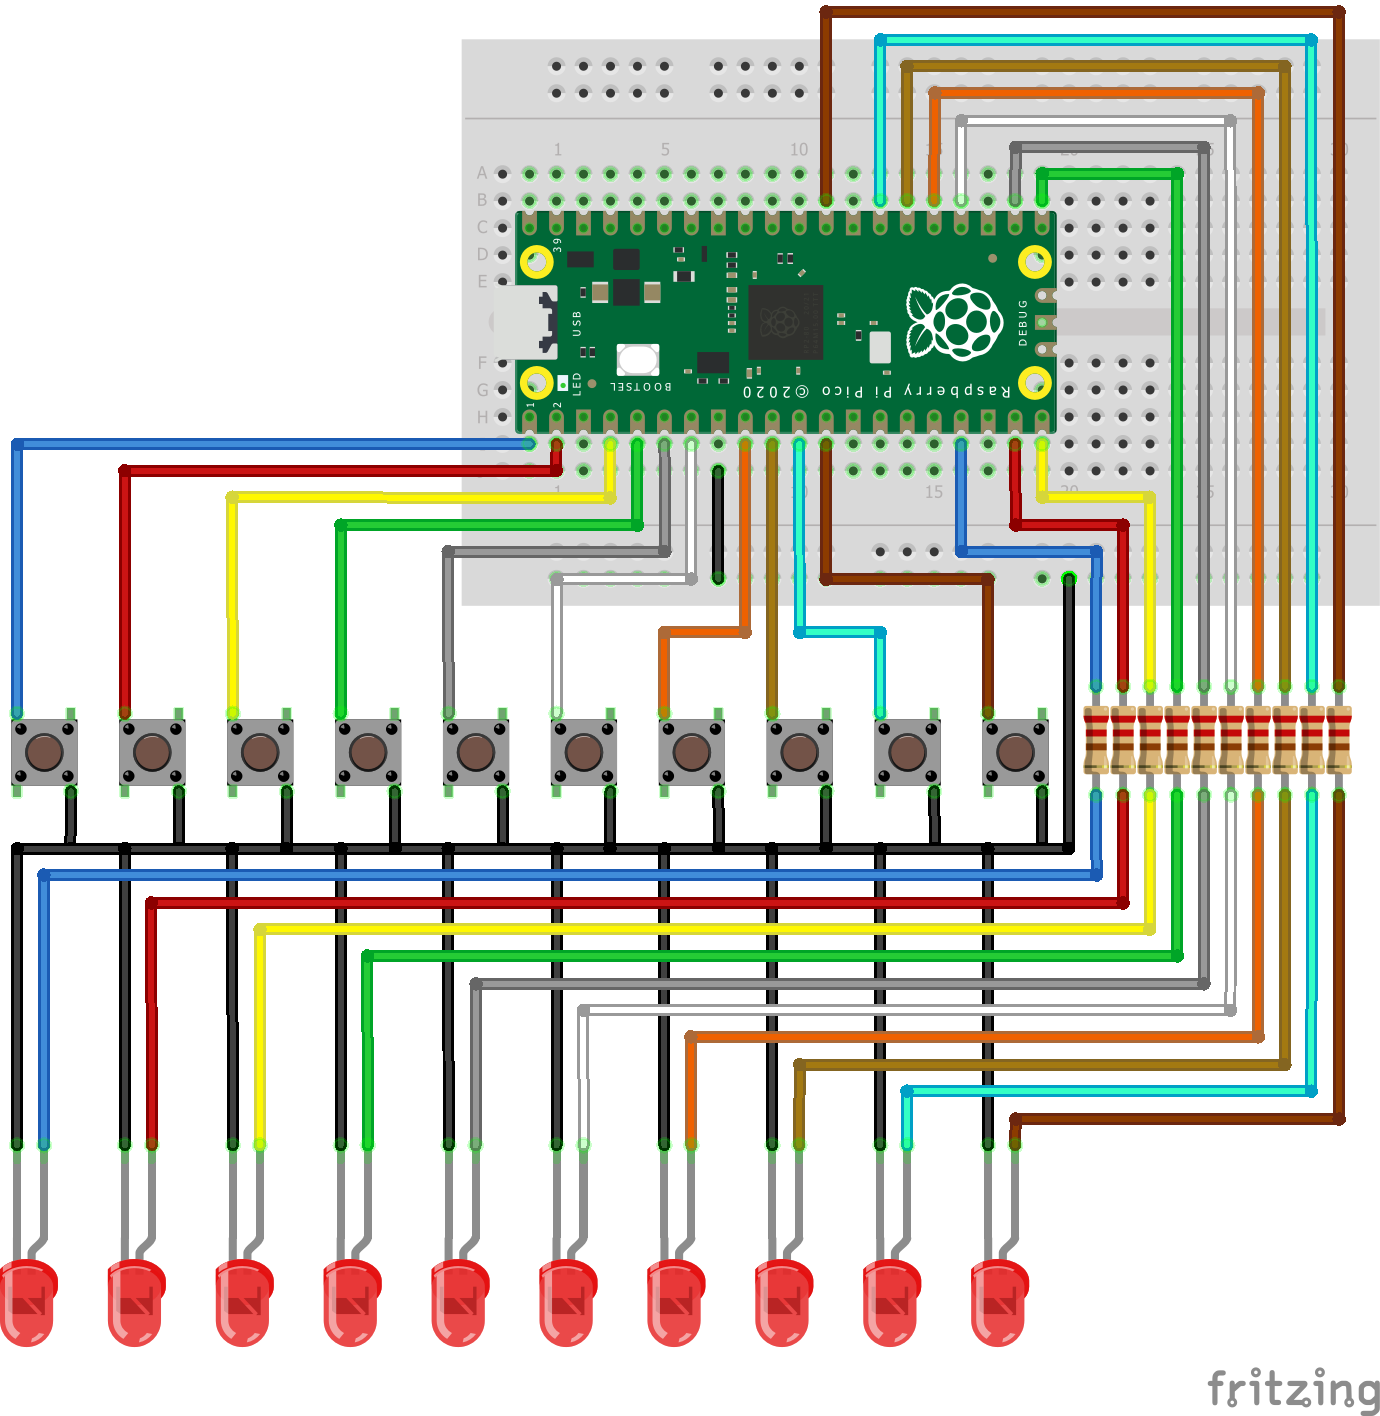
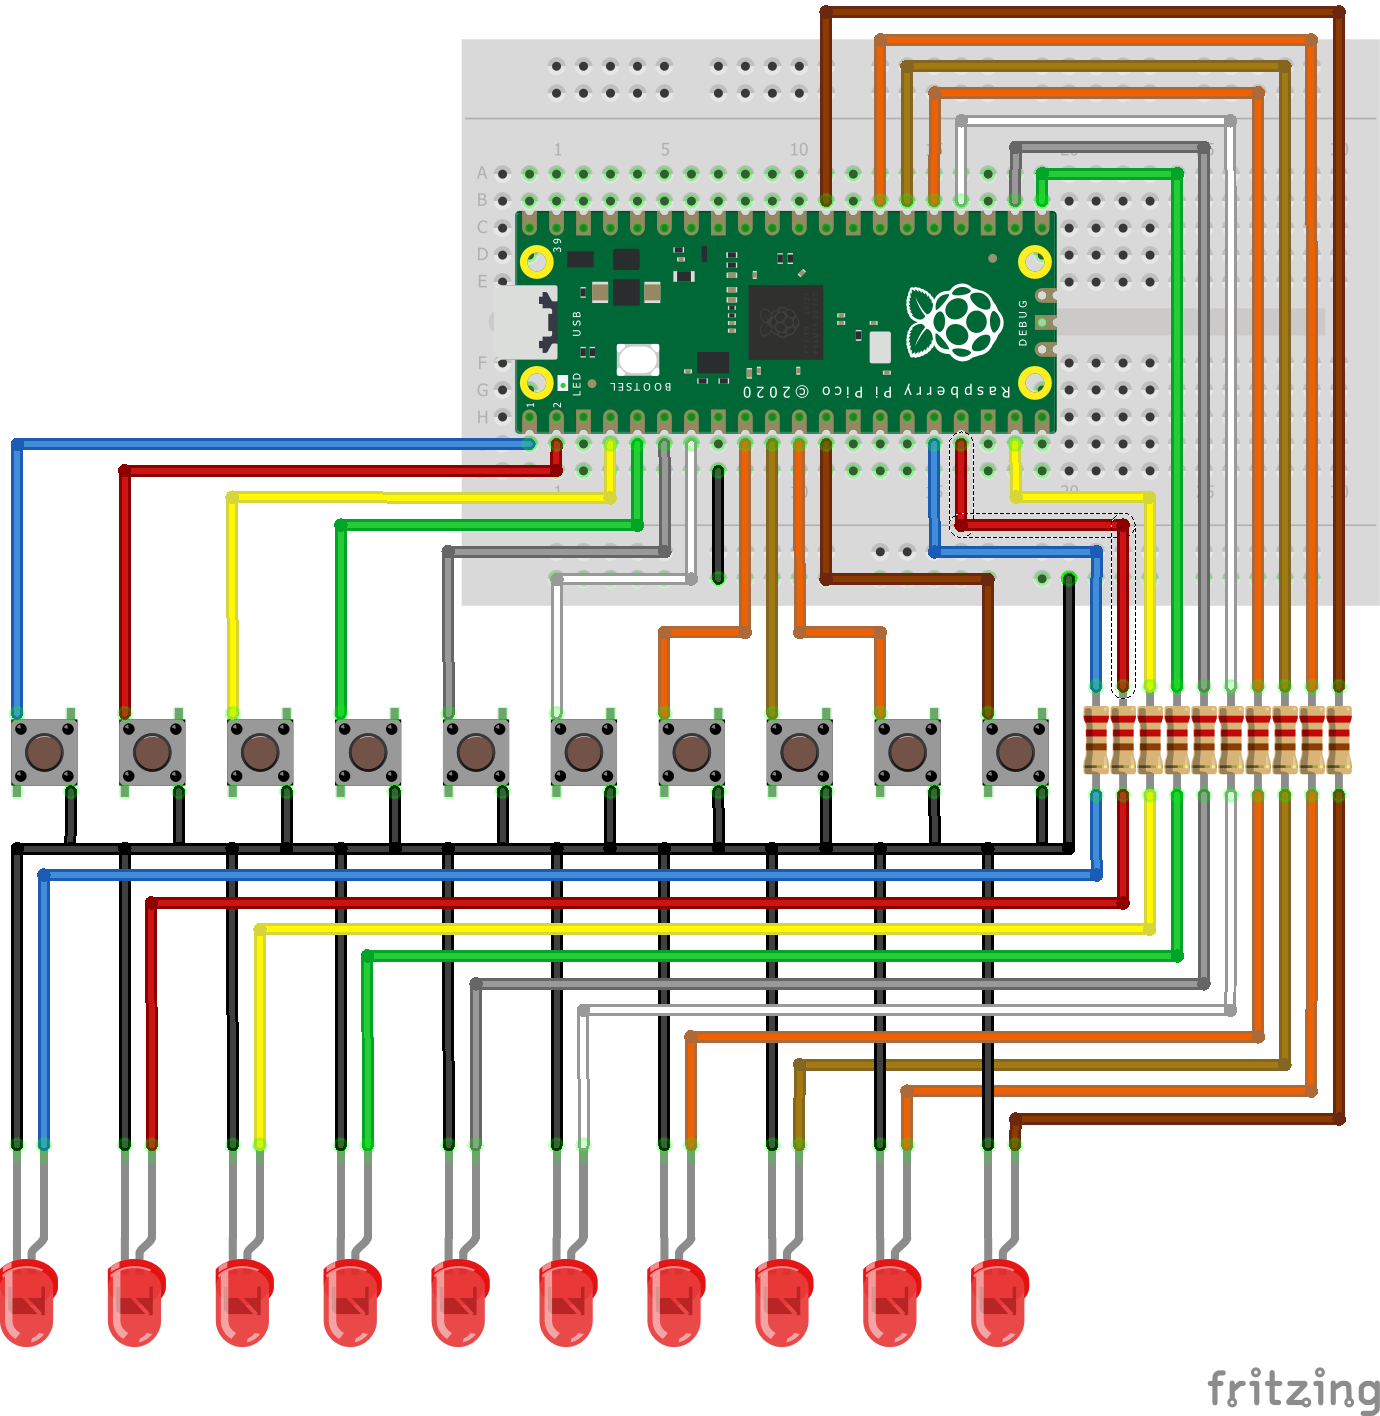
Don't use Pin15 - USB Conflict! "ValueError: GP15 in use"

diff --git a/code.py b/code.py
@@ -35,9 +35,9 @@ btn10_Pin = board.GP9
 btn11_Pin = board.GP10
 btn12_Pin = board.GP11
 
-led1_pin = board.GP13
-led2_pin = board.GP14
-led3_pin = board.GP15
+led1_pin = board.GP12
+led2_pin = board.GP13
+led3_pin = board.GP14
 led4_pin = board.GP16
 led5_pin = board.GP17
 led6_pin = board.GP18
